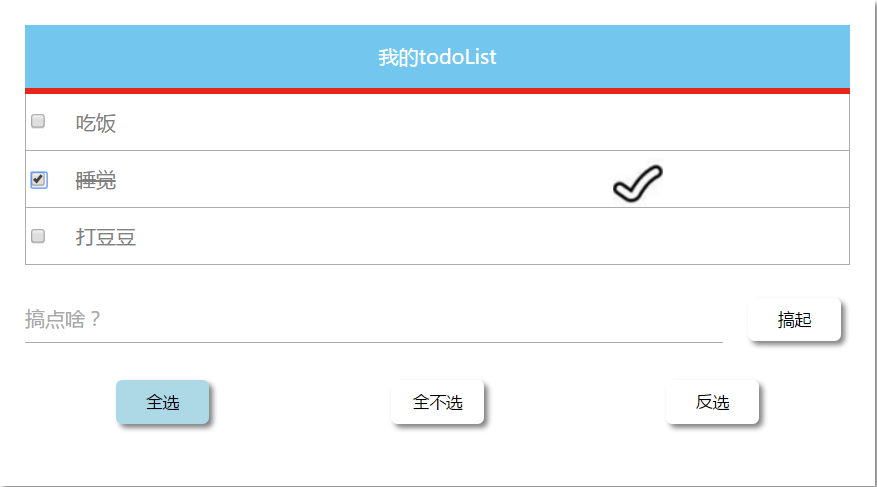
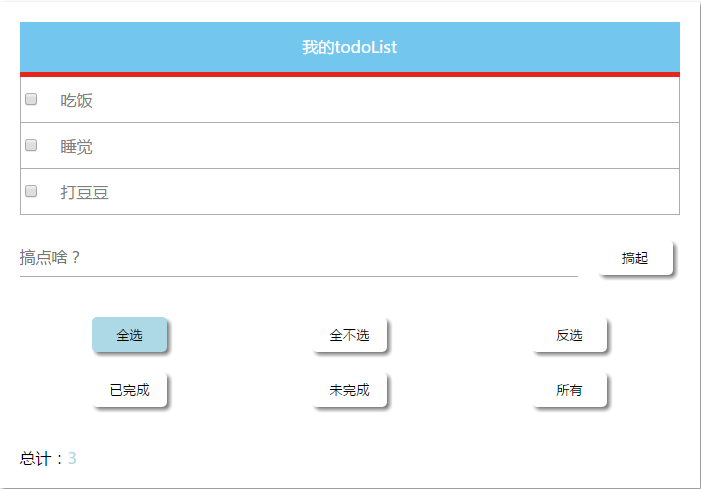
add button style

diff --git a/src/components/label/label.js b/src/components/label/label.js
@@ -50,17 +50,17 @@ export default class Label extends React.Component {
         };
 
         const buttonMargin = {
-            margin: '0 50px'
+            margin: '10px 50px'
         }
         return (
             <div>
               <div style={divStyle}>
-                <button style={{allCompletedButton, ...buttonMargin}} onClick={this.allCompleted.bind(this)}>全选</button>
-                <button style={{button, ...buttonMargin}} onClick={this.allUnCompleted.bind(this)}>全不选</button>
-                <button style={{button, ...buttonMargin}} onClick={this.unSelect.bind(this)}>反选</button>
-                <button style={{button, ...buttonMargin}} onClick={this.filterCompleted.bind(this)}>已完成</button>
-                <button style={{button, ...buttonMargin}} onClick={this.filterUnCompleted.bind(this)}>未完成</button>
-                <button style={{button, ...buttonMargin}} onClick={this.filterAll.bind(this)}>所有</button>
+                <button style={{...allCompletedButton, ...buttonMargin}} onClick={this.allCompleted.bind(this)}>全选</button>
+                <button style={{...button, ...buttonMargin}} onClick={this.allUnCompleted.bind(this)}>全不选</button>
+                <button style={{...button, ...buttonMargin}} onClick={this.unSelect.bind(this)}>反选</button>
+                <button style={{...button, ...buttonMargin}} onClick={this.filterCompleted.bind(this)}>已完成</button>
+                <button style={{...button, ...buttonMargin}} onClick={this.filterUnCompleted.bind(this)}>未完成</button>
+                <button style={{...button, ...buttonMargin}} onClick={this.filterAll.bind(this)}>所有</button>
               </div>
               <div>
                 总计：<span style={{color: 'lightblue'}}>{this.props.store.listLength}</span>
